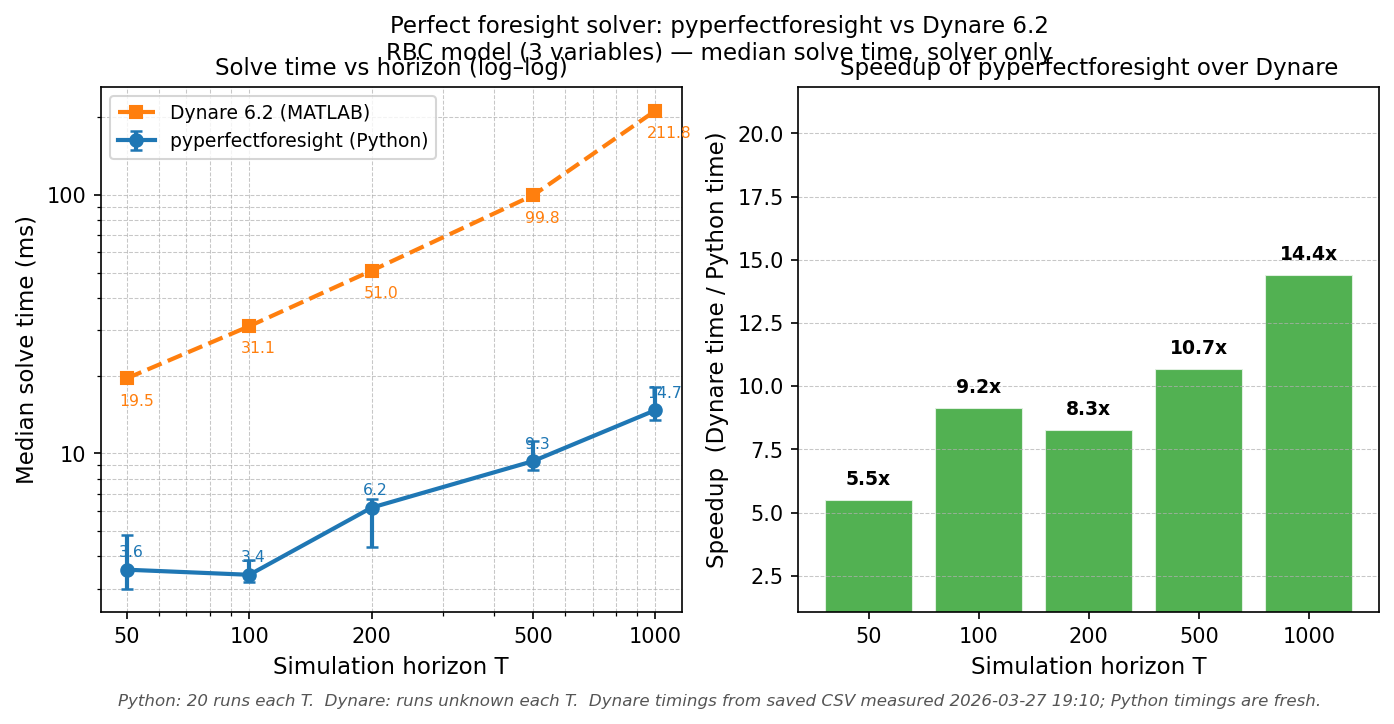
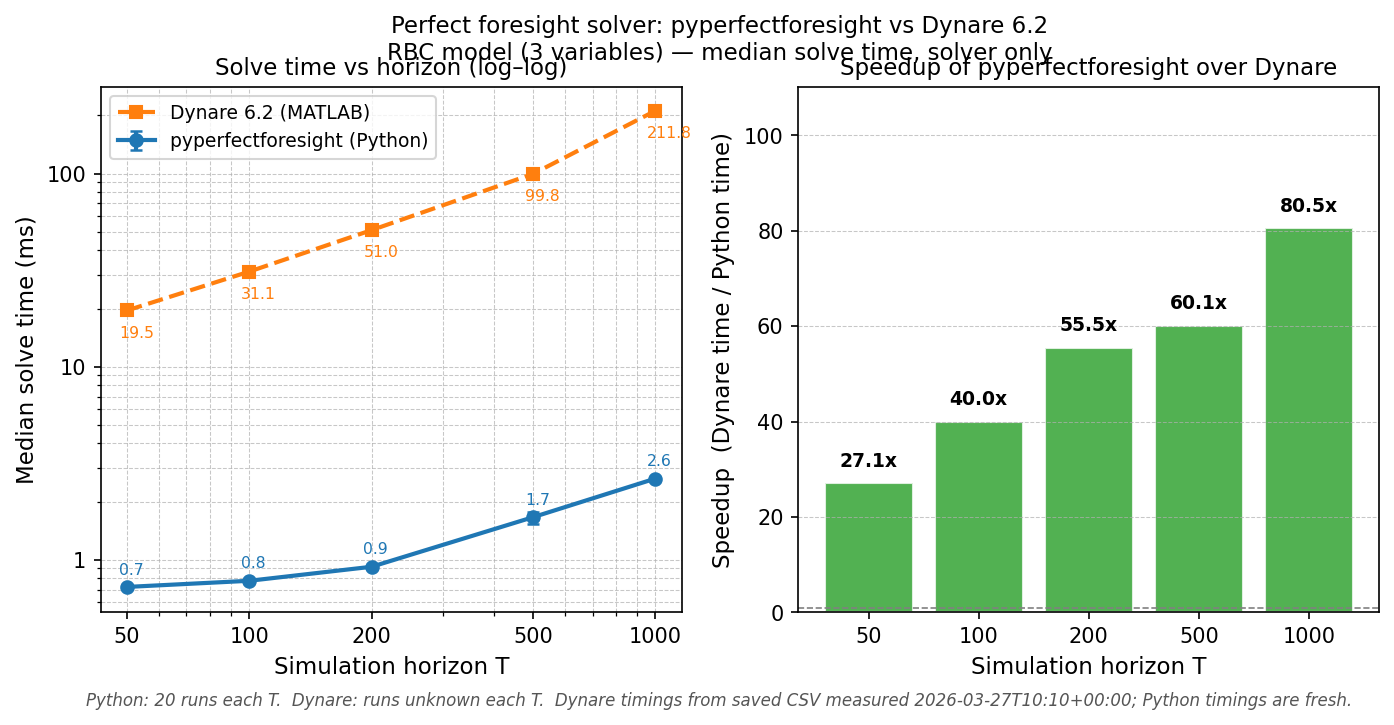
docs: update benchmark numbers and plot
Fresh Python timings (median of 20 runs, solver only):
  T=50: 0.72ms, T=100: 0.78ms, T=200: 0.92ms, T=500: 1.66ms, T=1000: 2.63ms

Speedup over Dynare 6.2 updated from ~23-61x to ~27-81x.
Dynare timings unchanged (loaded from saved CSV, measured 2026-03-27).

diff --git a/README.md b/README.md
@@ -58,17 +58,17 @@ For homotopy continuation, expectation-errors (news shocks), the functional API,
 
 ## Performance
 
-pyperfectforesight is **~23–61× faster** than Dynare 6.2 on the same RBC model, measured on the solver step alone (excludes one-time compilation/setup on both sides).
+pyperfectforesight is **~27–81× faster** than Dynare 6.2 on the same RBC model, measured on the solver step alone (excludes one-time compilation/setup on both sides).
 
 ![Benchmark: pyperfectforesight vs Dynare 6.2](docs/benchmark_plot.png)
 
 | Horizon T | Python (ms) | Dynare (ms) | Speedup |
 |----------:|------------:|------------:|--------:|
-|        50 |        0.86 |       19.55 |  22.7×  |
-|       100 |        0.82 |       31.08 |  37.9×  |
-|       200 |        1.06 |       50.95 |  48.1×  |
-|       500 |        2.10 |       99.75 |  47.4×  |
-|      1000 |        3.45 |      211.79 |  61.4×  |
+|        50 |        0.72 |       19.55 |  27.1×  |
+|       100 |        0.78 |       31.08 |  40.0×  |
+|       200 |        0.92 |       50.95 |  55.5×  |
+|       500 |        1.66 |       99.75 |  60.1×  |
+|      1000 |        2.63 |      211.79 |  80.5×  |
 
 *RBC model, 3 variables, one-time TFP shock. Median of 20 runs each. Solver only.*
 
